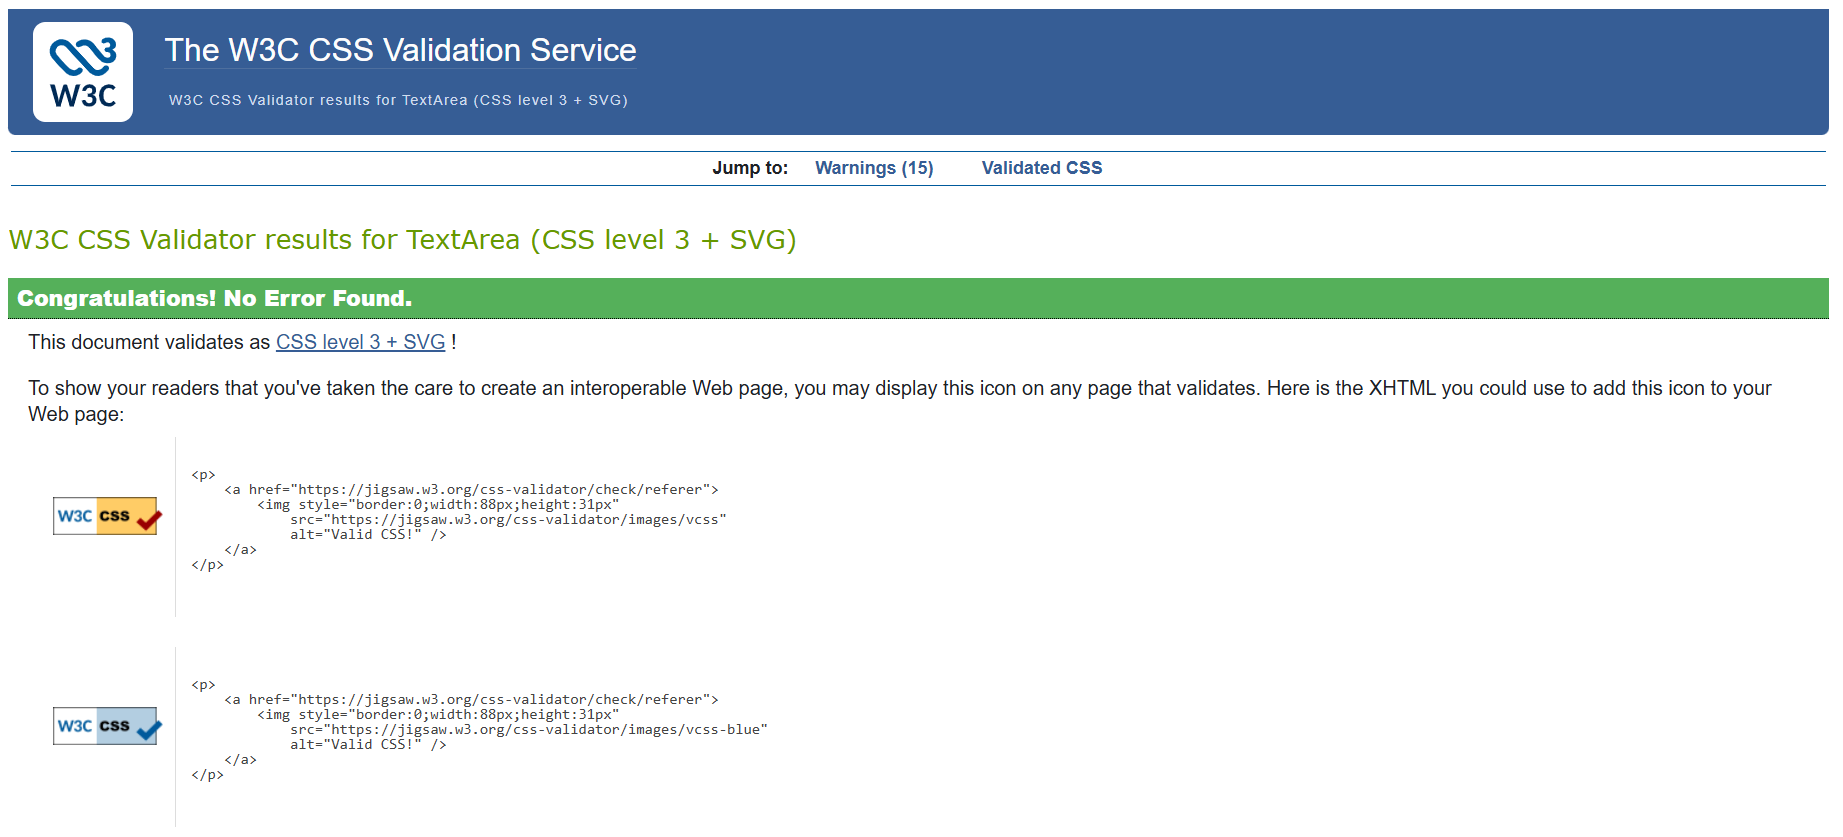
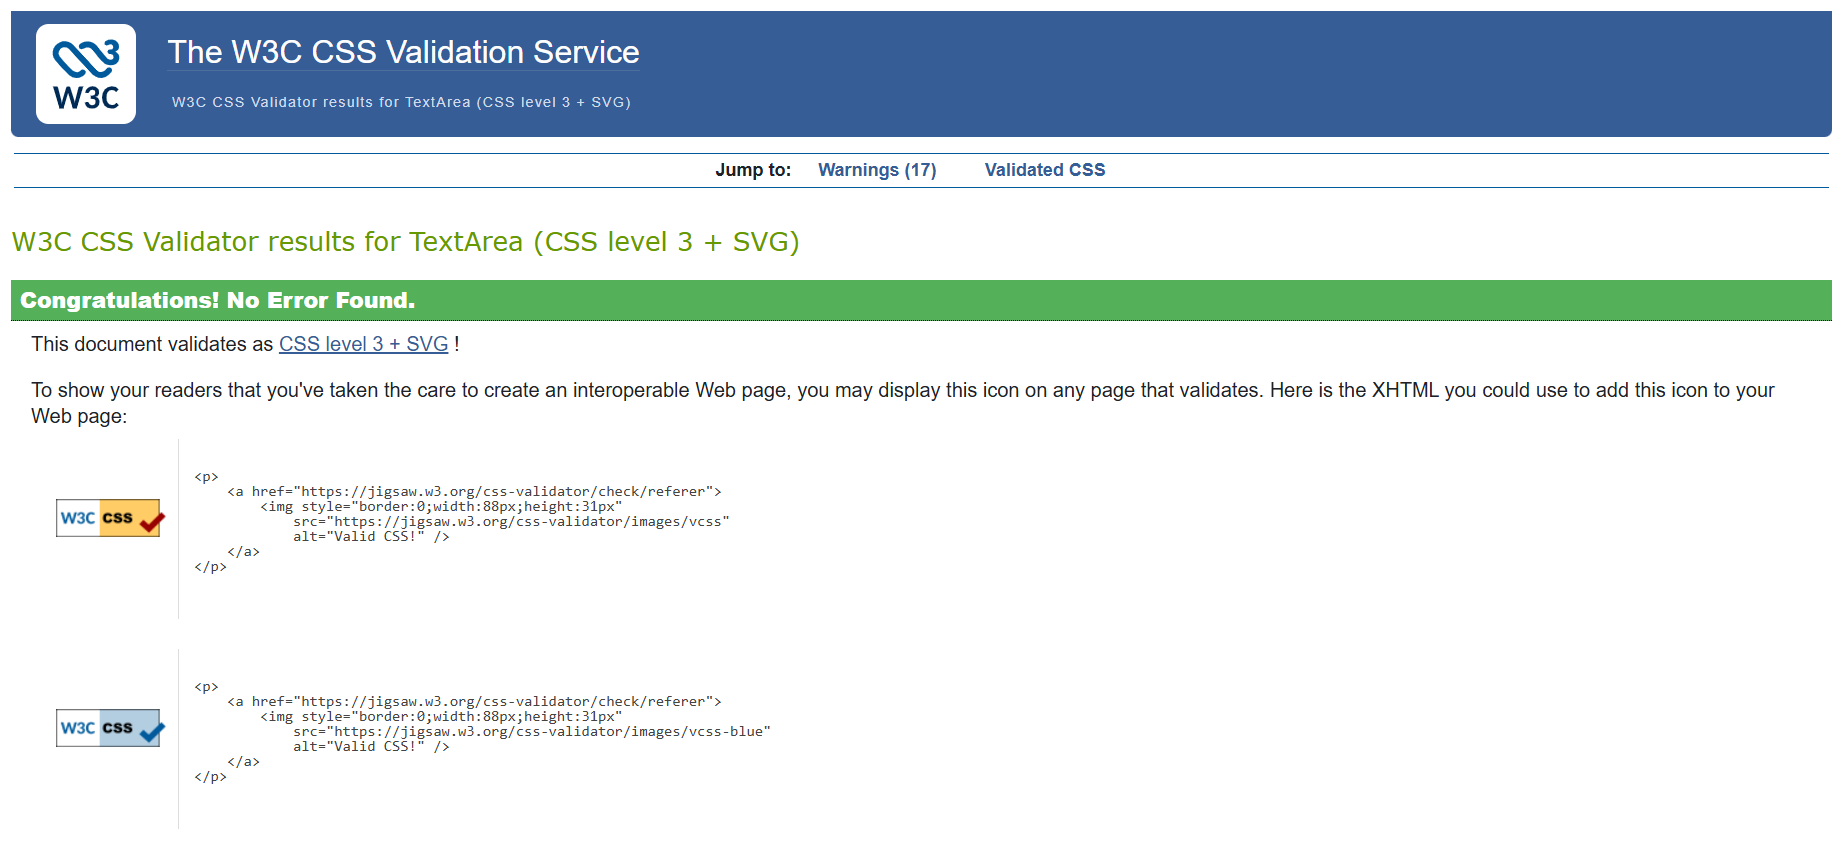
Add manual testing for voice call functionality

diff --git a/TESTING.md b/TESTING.md
@@ -14,19 +14,19 @@ I used the recommended HTML W3C Validator to validate all HTML files throughout 
 
 | Directory | File Location | Validator | Screenshot | Notes |
 |---|---|---|---|---|
-| `templates` | [`templates/landing.html`](templates/landing.html) | Link to validator | <img src="assets/screenshots/Initial HTML errors/Landing_page_No_Errors.png" width="600"> | No errors found |
-| `templates` | [`templates/account/password_reset.html`](templates/account/password_reset.html) | Link to validator | <img src="assets/screenshots/Initial HTML errors/RESET_PASSWORD_NO_ERRORS.png" width="600"> | No errors found |
-| `templates` | [`templates/success.html`](templates/success.html) | Link to validator | <img src="assets/screenshots/Initial HTML errors/PASSWORD_RESET_SUCCESS_PAGE_NO_ERRORS.png" width="600"> | No errors found |
-| `nearby` | [`profiles/templates/profiles/nearby.html`](profiles/templates/profiles/nearby.html) | Link to validator | <img src="assets/screenshots/Initial HTML errors/Main_nearby_page_No_ERRORS.png" width="600"> | No errors found |
-| `encounters` | [`matches/templates/matches/encounters.html`](matches/templates/matches/encounters.html) | Link to validator | <img src="assets/screenshots/Initial HTML errors/Encounters_html_page_No_Errors.png" width="600"> | No errors found |
-| `chat` | [`chat/templates/chat/messages.html`](chat/templates/chat/messages.html) | Link to validator | <img src="assets/screenshots/Initial HTML errors/Chat_list_html_No_Errors.png" width="600"> | No errors found |
-| `chat` | [`chat/templates/chat/chat_room.html`](chat/templates/chat/chat_room.html) | Link to validator | <img src="assets/screenshots/Initial HTML errors/Chat_room_html_No_Errors.png" width="600"> | No errors found |
-| `profiles` | [`profiles/templates/profiles/profile_detail.html`](profiles/templates/profiles/profile_detail.html) | Link to validator | <img src="assets/screenshots/Initial HTML errors/My_Profile_No_Errors.png" width="600"> | No errors found |
-| `profiles` | [`profiles/templates/profiles/edit_profile.html`](profiles/templates/profiles/edit_profile.html) | Link to validator | <img src="assets/screenshots/Initial HTML errors/Profils_Details_page_No_Erros.png" width="600"> | No errors found |
-| `likes` | [`matches/templates/matches/likes.html`](matches/templates/matches/likes.html) | Link to validator | <img src="assets/screenshots/Initial HTML errors/Matches_likes_No_Errors.png" width="600"> | No errors found |
-| `templates` | [`templates/account/signup.html`](templates/account/signup.html) | Link to validator | <img src="assets/screenshots/Initial HTML errors/SignUp_registration_page_No_Errors.png" width="600"> | No errors found |
-| `templates` | [`templates/account/login.html`](templates/account/login.html) | Link to validator | <img src="assets/screenshots/Initial HTML errors/Login_Page_No_Errors.png" width="600"> | No errors found |
-| `templates` | [`templates/account/logout.html`](templates/account/logout.html) | Link to validator | <img src="assets/screenshots/Initial HTML errors/My_Profile_No_Errors.png" width="600"> | No errors found |
+| `templates` | [`templates/landing.html`](templates/landing.html) | HTML W3C Validator | <img src="assets/screenshots/Initial HTML errors/Landing_page_No_Errors.png" width="600"> | No errors found |
+| `templates` | [`templates/account/password_reset.html`](templates/account/password_reset.html) | HTML W3C Validator | <img src="assets/screenshots/Initial HTML errors/RESET_PASSWORD_NO_ERRORS.png" width="600"> | No errors found |
+| `templates` | [`templates/success.html`](templates/success.html) | HTML W3C Validator | <img src="assets/screenshots/Initial HTML errors/PASSWORD_RESET_SUCCESS_PAGE_NO_ERRORS.png" width="600"> | No errors found |
+| `nearby` | [`profiles/templates/profiles/nearby.html`](profiles/templates/profiles/nearby.html) | HTML W3C Validator | <img src="assets/screenshots/Initial HTML errors/Main_nearby_page_No_ERRORS.png" width="600"> | No errors found |
+| `encounters` | [`matches/templates/matches/encounters.html`](matches/templates/matches/encounters.html) | HTML W3C Validator | <img src="assets/screenshots/Initial HTML errors/Encounters_html_page_No_Errors.png" width="600"> | No errors found |
+| `chat` | [`chat/templates/chat/messages.html`](chat/templates/chat/messages.html) | HTML W3C Validator | <img src="assets/screenshots/Initial HTML errors/Chat_list_html_No_Errors.png" width="600"> | No errors found |
+| `chat` | [`chat/templates/chat/chat_room.html`](chat/templates/chat/chat_room.html) | HTML W3C Validator | <img src="assets/screenshots/Initial HTML errors/Chat_room_html_No_Errors.png" width="600"> | No errors found |
+| `profiles` | [`profiles/templates/profiles/profile_detail.html`](profiles/templates/profiles/profile_detail.html) | HTML W3C Validator | <img src="assets/screenshots/Initial HTML errors/My_Profile_No_Errors.png" width="600"> | No errors found |
+| `profiles` | [`profiles/templates/profiles/edit_profile.html`](profiles/templates/profiles/edit_profile.html) | HTML W3C Validator | <img src="assets/screenshots/Initial HTML errors/Profils_Details_page_No_Erros.png" width="600"> | No errors found |
+| `likes` | [`matches/templates/matches/likes.html`](matches/templates/matches/likes.html) | HTML W3C Validator | <img src="assets/screenshots/Initial HTML errors/Matches_likes_No_Errors.png" width="600"> | No errors found |
+| `templates` | [`templates/account/signup.html`](templates/account/signup.html) | HTML W3C Validator | <img src="assets/screenshots/Initial HTML errors/SignUp_registration_page_No_Errors.png" width="600"> | No errors found |
+| `templates` | [`templates/account/login.html`](templates/account/login.html) | HTML W3C Validator | <img src="assets/screenshots/Initial HTML errors/Login_Page_No_Errors.png" width="600"> | No errors found |
+| `templates` | [`templates/account/logout.html`](templates/account/logout.html) | HTML W3C Validator | <img src="assets/screenshots/Initial HTML errors/My_Profile_No_Errors.png" width="600"> | No errors found |
 ---
 
 ## Initial Validation Errors and Fixes
@@ -53,7 +53,7 @@ One validation error was also identified and corrected during development.
 
 ### Initial CSS Validation Error
 
-<img src="assets/screenshots/CSS_ERRORS.png" width="800">
+<img src="assets/screenshots/CSS_ERRORS.png" width="400">
 
 | Line | Error | Fix Applied |
 |---|---|---|
@@ -65,22 +65,35 @@ One validation error was also identified and corrected during development.
 
 The remaining warnings are related to vendor-specific extensions such as:
 
-- `::-webkit-scrollbar`
-- `::-webkit-scrollbar-thumb`
-- `::-webkit-scrollbar-track`
-- `-webkit-overflow-scrolling`
-- `::-webkit-file-upload-button`
-- `-webkit-mask`
+| Line | Warning | Reason |
+|------|----------|---------|
+| 446 | `::-webkit-scrollbar` is a vendor extended pseudo-element | Used to style custom scrollbars in WebKit browsers. |
+| 451 | `-webkit-overflow-scrolling` is a vendor extension | Enables smooth scrolling on iOS devices. |
+| 455 | `::-webkit-scrollbar` is a vendor extended pseudo-element | Used for custom scrollbar styling. |
+| 459 | `::-webkit-scrollbar-track` is a vendor extended pseudo-element | Styles the scrollbar track in WebKit browsers. |
+| 543 | `::-webkit-scrollbar-thumb` is a vendor extended pseudo-element | Styles the scrollbar thumb in WebKit browsers. |
+| 561 | `::-webkit-file-upload-button` is a vendor extended pseudo-element | Used to customize the appearance of file upload inputs. |
+| 580 | `-webkit-mask-image` is a vendor extension | Required for WebKit browser support when masking icons. |
+| 581 | `-webkit-mask-position` is a vendor extension | Required for proper mask positioning in WebKit browsers. |
+| 582 | `-webkit-mask-repeat` is a vendor extension | Controls mask repetition in WebKit browsers. |
+| 583 | `-webkit-mask-size` is a vendor extension | Controls mask sizing in WebKit browsers. |
+| 599 | `-webkit-appearance` is a vendor extension | Removes default browser styling from form elements. |
+| 726 | `break-word` value is deprecated | Used as a fallback to ensure long URLs and text wrap correctly on mobile devices. |
+| 1018 | `break-word` value is deprecated | Used to prevent content overflow in user-generated posts. |
+| 1064 | `::-webkit-scrollbar` is a vendor extended pseudo-element | Custom scrollbar styling for WebKit browsers. |
+| 1372 | `clip` property is deprecated | Used for visually hidden accessibility elements and remains widely supported. |
+| 1641 | `::-webkit-scrollbar-track` is a vendor extended pseudo-element | Styles dark mode scrollbar track. |
+| 1645 | `::-webkit-scrollbar-thumb` is a vendor extended pseudo-element | Styles dark mode scrollbar thumb. |
 
-These are intentional browser-specific enhancements used for custom scrollbars, mobile scrolling behavior, and improved UI styling compatibility.
+These warnings are expected and have been retained to provide a better user experience across modern browsers, especially Safari and iOS devices. They are intentional browser-specific enhancements used for custom scrollbars, mobile scrolling behavior, file upload styling, and UI compatibility.
 
 ---
 
-### CSS Validation Results
+## CSS Validation Results
 
 | Directory | File Location | Screenshot | Notes |
 |---|---|---|---|
-| `static/css` | [`static/css/style.css`](static/css/style.css) | <img src="assets/screenshots/CSS_No_ERRORS.png" width="800"> | Warnings relate to vendor-specific WebKit extensions and CSS variables |
+| `static/css` | [`static/css/style.css`](static/css/style.css) | <img src="assets/screenshots/CSS_No_ERRORS.png" width="800"> | NO ERRORS. Warnings relate to vendor-specific WebKit extensions and CSS variables |
 
 
 ---
@@ -270,6 +283,8 @@ The application was tested manually on both desktop and mobile devices to ensure
 | Empty Likes Post | Attempted to submit an empty post | Form should prevent submission and display a warning message | Validation message displayed correctly | ✅ Pass | ![Empty Post](assets/screenshots/MANUAL-TESTING-likes-post-empty-input.png) |
 | Empty Chat Message | Attempted to send an empty chat message | System should prevent submission | Empty message was not sent | ✅ Pass | ![Empty Message](assets/screenshots/MANUAL-TESTING-no-empty-messages-send.png) |
 | Image Upload and WebP Conversion | Uploaded JPEG and PNG images through chat | Images should be automatically converted to WebP format to reduce storage usage and display correctly in chat | Images were converted to WebP format and displayed successfully | ✅ Pass | ![Image Upload](assets/screenshots/MANUAL-TESTING-image-uploaded-in-webp.png) |
+| Voice Call Functionality | Started a voice call by pressing the call button and accepted the call using the green answer button | The recipient should receive an incoming call notification and be able to accept or decline the call | Incoming call notification displayed correctly and the call was successfully connected after pressing the green answer button | ✅ Pass | ![Voice Call Test](assets/screenshots/MANUAL_TESTS_CALLS_PRESS_PHONE_THEN_GREEN_BTN.png) |
+| Call Decline Functionality | Started a voice call and pressed the red decline button | The incoming call should be rejected and the call session should end immediately | Call was successfully declined and the connection was terminated without establishing an active call | ✅ Pass | ![Call Decline Test](assets/screenshots/MANUAL_TESTS_CALLS_DECLINE_RED_BTN.png) |
 
 
 